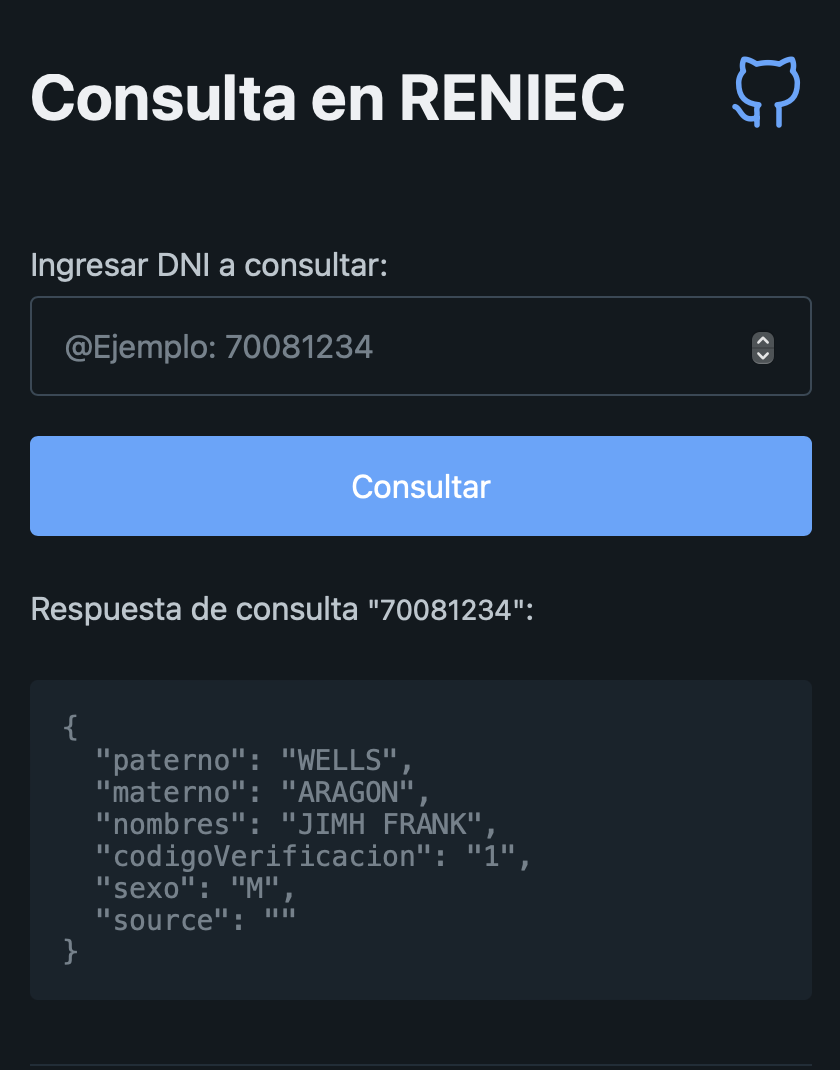
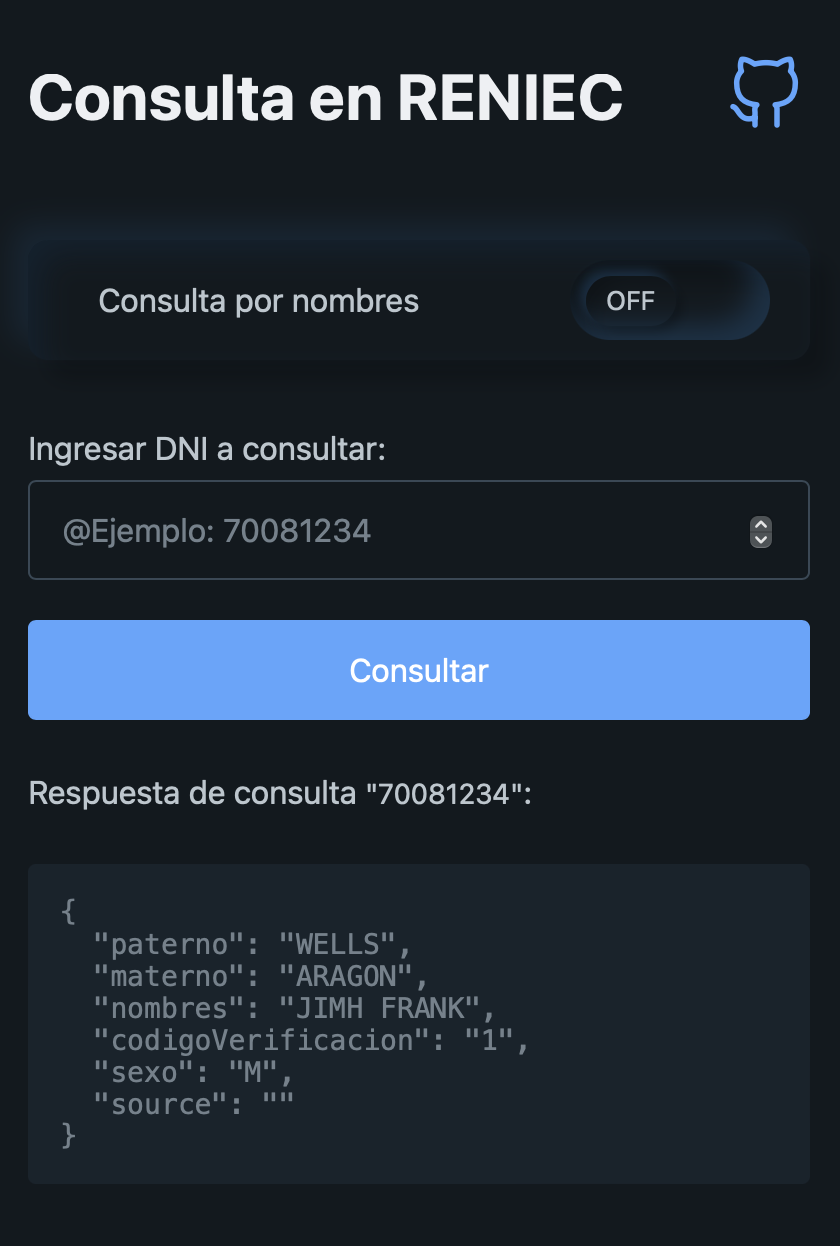
check with names

diff --git a/app.js b/app.js
@@ -1,18 +1,73 @@
 const qs = (selector) => document.querySelector(selector);
 
+const templateDNI = `
+  <label>
+    <span>Ingresar DNI a consultar:</span>
+    <input type="number" name="document" placeholder="@Ejemplo: 70081234" required/>
+  </label>
+  <button type="submit">Consultar</button>
+`;
+
+const templateNames = `
+  <label>
+    <span>Apellido Paterno:</span>
+    <input type="text" name="paterno" placeholder="@Ejemplo: Wells" required/>
+  </label>
+  <label>
+    <span>Apellido Materno:</span>
+    <input type="text" name="materno" placeholder="@Ejemplo: Smith" required/>
+  </label>
+  <label>
+    <span>Nombre(s):</span>
+    <input type="text" name="nombres" placeholder="@Ejemplo: James" required/>
+  </label>
+  <button type="submit">Consultar</button>
+`;
+
+const infoTemplate = `
+  <article>
+    <hgroup>
+        <h2>Sugerencias</h2>
+        <h3>Si no encuentra reultados, puede probar con los siguientes datos:</h3>
+    </hgroup>
+    <div class="headings">
+      <ul>
+        <li>Si sus <b>"nombres o apellidos"</b> tienen acentos o caracteres especiales, por favor ingrese la letra sin acento o caracter especial.</li>
+        <li>Si su <b>"apellido paterno"</b> es compuesto, por favor ingrese el primer apellido.</li>
+        <li>Si su <b>"apellido materno"</b> es compuesto, por favor ingrese el primer apellido.</li>
+        <li>Si su <b>"nombre"</b> es compuesto, por favor ingrese el primer nombre.</li>
+      </ul>
+    </div>
+ </article>
+`
+
 const form = qs('form');
+const result = qs('#result');
+let isNames = false;
+const observer = qs('#names');
+observer.addEventListener('change', (event) => {
+  isNames = event.target.checked;
+  result.innerHTML = '';
+  form.innerHTML = isNames ? templateNames : templateDNI;
+});
+
 form.addEventListener('submit', async (e) => {
   e.preventDefault();
   const formData = new FormData(form);
   const data = Object.fromEntries(formData);
-  const result = qs('#result');
   const button = qs('button');
   try {
     button.setAttribute('aria-busy', true);
     button.setAttribute('disabled', true);
     button.textContent = 'Consultando datos...';
-    const response = await getInfoWithDni(data.document);
-    result.innerHTML = `<p>Respuesta de consulta <small>"${data.document}"</small>:</p> <pre>${JSON.stringify(response, null, 2)}</pre>`;
+    if(isNames) {
+      const {paterno, materno, nombres} = data;
+      const {response, success, message} = await getInfoWithNames(paterno, materno, nombres);
+      result.innerHTML = `<p>Respuesta de consulta para: <br> "${paterno} ${materno} ${nombres}"</p> <pre>${JSON.stringify(response || message, null, 2)}</pre> ${!success ? infoTemplate : ''}`;
+    } else {
+      const response = await getInfoWithDni(data.document);
+      result.innerHTML = `<p>Respuesta de consulta <small>"${data.document}"</small>:</p> <pre>${JSON.stringify(response, null, 2)}</pre>`;
+    }
   } catch (err) {
     console.error(err);
     result.innerHTML = `<p>Ha ocurrido un error, vuelva a intentarlo en unos minutos</p>`;

diff --git a/index.html b/index.html
@@ -6,8 +6,9 @@
   <meta name="viewport" content="width=device-width, initial-scale=1.0">
   <title>Consultas RENIEC</title>
   <link rel="icon" type="image/x-icon" href="images/favicon.png">
-  <meta name="description" content="Consulta datos desde RENIEC solo con DNI. Este servicio es totalmente gratuito y no requiere de ningún tipo de registro.">
+  <meta name="description" content="Consulta datos desde RENIEC solo con DNI o Nombres. Este servicio es totalmente gratuito y no requiere de ningún tipo de registro.">
   <link rel="stylesheet" href="https://unpkg.com/@picocss/pico@latest/css/pico.min.css">
+  <link rel="stylesheet" href="css/styles.css">
   <!-- Google tag (gtag.js) -->
   <script async src="https://www.googletagmanager.com/gtag/js?id=G-BD84EWERH6"></script>
   <script>
@@ -16,13 +17,6 @@
     gtag('js', new Date());
     gtag('config', 'G-BD84EWERH6');
   </script>
-  <style>
-    :root {--primary: #58a6ff !important}
-    header {position: relative}
-    pre {padding: 16px}
-    h1 {padding-right: 80px}
-    .icon {position: absolute;right: 0;top: 0}
-  </style>
 </head>
 <body>
   <main class="container">
@@ -35,6 +29,17 @@
         </svg>
       </a>
     </header>
+    <section>
+      <div class="switch-holder">
+        <div class="switch-label">
+          <i class="fa fa-bluetooth-b"></i><span>Consulta por nombres</span>
+        </div>
+        <div class="switch-toggle">
+          <input type="checkbox" id="names">
+          <label for="names"></label>
+        </div>
+      </div>
+    </section>
     <form >
       <label>
         <span>Ingresar DNI a consultar:</span>
@@ -51,9 +56,11 @@
         <h3>Este servicio es totalmente gratuito y no requiere de ningún tipo de registro.</h3>
       </hgroup>
       <div class="headings">
-        <p>Para consultar los datos de una persona solo debes ingresar su número de DNI y presionar el botón "Consultar".</p>
-        <p>Los datos que se muestran son los mismos que se encuentran en el Registro Nacional de Identificación y Estado Civil (RENIEC).</p>
-        <p>Este servicio no almacena ningún dato de los usuarios.</p>
+        <ul>
+          <li>Para consultar los datos de una persona solo debes ingresar su número de DNI y presionar el botón "Consultar".</li>
+          <li>Los datos que se muestran son los mismos que se encuentran en el Registro Nacional de Identificación y Estado Civil (RENIEC).</li>
+          <li>Este servicio no almacena ningún dato de los usuarios.</li>
+        </ul>
       </div>
     </article>
     <blockquote>

diff --git a/css/styles.css b/css/styles.css
@@ -1,0 +1,111 @@
+:root {
+  --primary: #58a6ff !important
+}
+
+header {
+  position: relative
+}
+
+pre {
+  padding: 16px
+}
+
+h1 {
+  padding-right: 80px
+}
+
+.icon {
+  position: absolute;
+  right: 0;
+  top: 0
+}
+
+.switch-holder {
+  display: flex;
+  padding: 10px 20px;
+  border-radius: 10px;
+  box-shadow: -8px -8px 15px rgba(255, 255, 255, .7),
+  10px 10px 10px rgba(0, 0, 0, .2),
+  inset 8px 8px 15px rgba(255, 255, 255, .7),
+  inset 10px 10px 10px rgba(0, 0, 0, .2);
+  justify-content: space-between;
+  align-items: center;
+}
+
+.switch-label {
+  padding: 0 20px 0 10px
+}
+
+.switch-label i {
+  margin-right: 5px;
+}
+
+.switch-toggle {
+  height: 40px;
+}
+
+.switch-toggle input[type="checkbox"] {
+  position: absolute;
+  opacity: 0;
+  z-index: -2;
+}
+
+.switch-toggle input[type="checkbox"]+label {
+  position: relative;
+  display: inline-block;
+  width: 100px;
+  height: 40px;
+  border-radius: 20px;
+  margin: 0;
+  cursor: pointer;
+  box-shadow: inset -8px -8px 15px rgba(255, 255, 255, .6),
+  inset 10px 10px 10px rgba(0, 0, 0, .25);
+}
+
+.switch-toggle input[type="checkbox"]+label::before {
+  position: absolute;
+  content: 'OFF';
+  font-size: 13px;
+  text-align: center;
+  line-height: 25px;
+  top: 8px;
+  left: 8px;
+  width: 45px;
+  height: 25px;
+  border-radius: 20px;
+  background-color: #eeeeee;
+  box-shadow: -3px -3px 5px rgba(255, 255, 255, .5),
+  3px 3px 5px rgba(0, 0, 0, .25);
+  transition: .3s ease-in-out;
+}
+
+.switch-toggle input[type="checkbox"]:checked+label::before {
+  left: 50%;
+  content: 'ON';
+  color: #fff;
+  background-color: #2da44e;
+  box-shadow: -3px -3px 5px rgba(255, 255, 255, .5),
+  3px 3px 5px #2da44e;
+}
+
+@media (prefers-color-scheme: dark) {
+  .switch-holder {
+    box-shadow: -8px -8px 15px rgba(31, 146, 230, .1),
+    10px 10px 10px rgba(0, 0, 0, .2),
+    inset 8px 8px 15px rgba(31, 146, 230, .1),
+    inset 10px 10px 10px rgba(0, 0, 0, .2);
+  }
+  .switch-toggle input[type="checkbox"]+label {
+    box-shadow: inset -8px -8px 15px rgba(31, 146, 230, .2),
+    inset 10px 10px 10px rgba(0, 0, 0, .25);
+  }
+  .switch-toggle input[type="checkbox"]+label::before {
+    background-color: transparent;
+    box-shadow: -3px -3px 5px rgba(31, 146, 230, .2),
+    3px 3px 5px rgba(0, 0, 0, .25);
+  }
+  .switch-toggle input[type="checkbox"]:checked+label::before {
+    box-shadow: -3px -3px 5px rgba(31, 146, 230, .25),
+    3px 3px 5px #2da44e;
+  }
+}

diff --git a/services.js b/services.js
@@ -1,5 +1,5 @@
 
-const url = "https://www.softwarelion.xyz/api/reniec/reniec-dni"
+const url = "https://www.softwarelion.xyz/api/reniec"
 const token = "eyJhbGciOiJIUzI1NiIsInR5cCI6IkpXVCJ9.eyJ1c2VyX2lkIjoyNDY3LCJjb3JyZW8iOiJ1aS5zcGFjZS5mckBnbWFpbC5jb20iLCJpYXQiOjE2NjIxNDE3Mzd9.SkGQGmN8LV6Xex9faOLuWms8yMd3pkyl_FxB6tUnP3g"
 const headers = {
   "Content-Type": "application/json",
@@ -7,7 +7,7 @@ const headers = {
 }
 
 async function getInfoWithDni(dni) {
-  const response = await fetch(url, {
+  const response = await fetch(`${url}/reniec-dni`, {
     method: "POST",
     headers,
     body: JSON.stringify({dni})
@@ -17,15 +17,18 @@ async function getInfoWithDni(dni) {
   return result
 }
 
-//in development
-async function getInfoWithNames({paterno, materno, nombres}) {
-  const response = await fetch(url, {
+async function getInfoWithNames(paterno, materno, nombres) {
+  const response = await fetch(`${url}/reniec-nombres`, {
     method: "POST",
     headers,
     body: JSON.stringify({paterno, materno, nombres})
   })
-  const {result} = await response.json()
-  return result 
+  const {success, result, message } = await response.json()
+  if(!success) return {message, success}
+  return {
+    response: result,
+    success
+  }
 }
 
 //in development

diff --git a/README.md b/README.md
@@ -4,6 +4,11 @@ Proyecto para consultar datos de personas en el RENIEC. Utiliza la API libre de 
 ## Demo and Preview
 Demo URL: [https://consultas-reniec.vercel.app](https://consultas-reniec.vercel.app)
 
+- Consulta con DNI:
+- Consulta por Nombres y Apellidos:
+
 
 ![Preview](https://raw.githubusercontent.com/frankliworld/reniec/main/images/reniec.png)
+
+![Preview](https://raw.githubusercontent.com/frankliworld/reniec/main/images/reniec-names.png)
 
